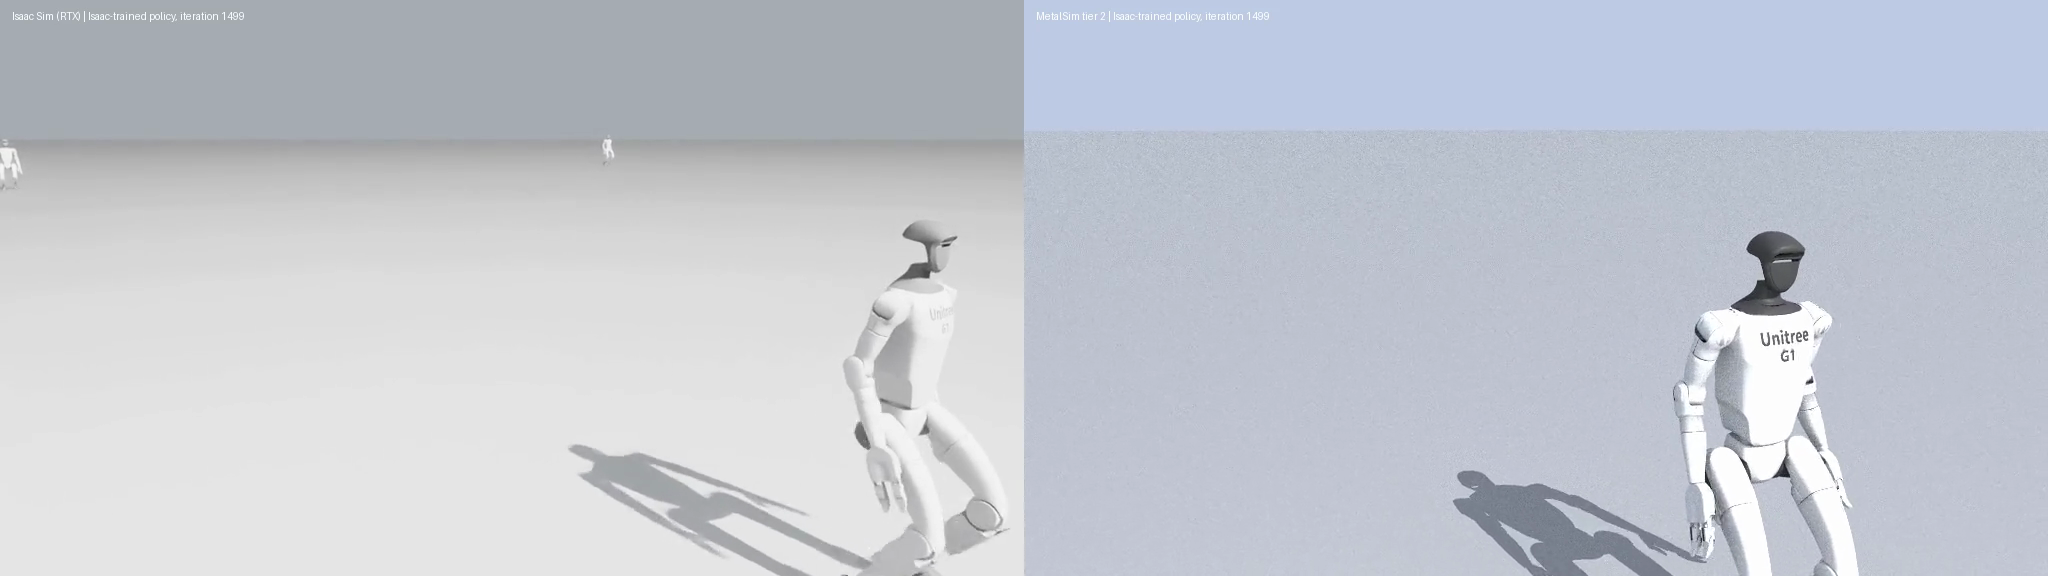
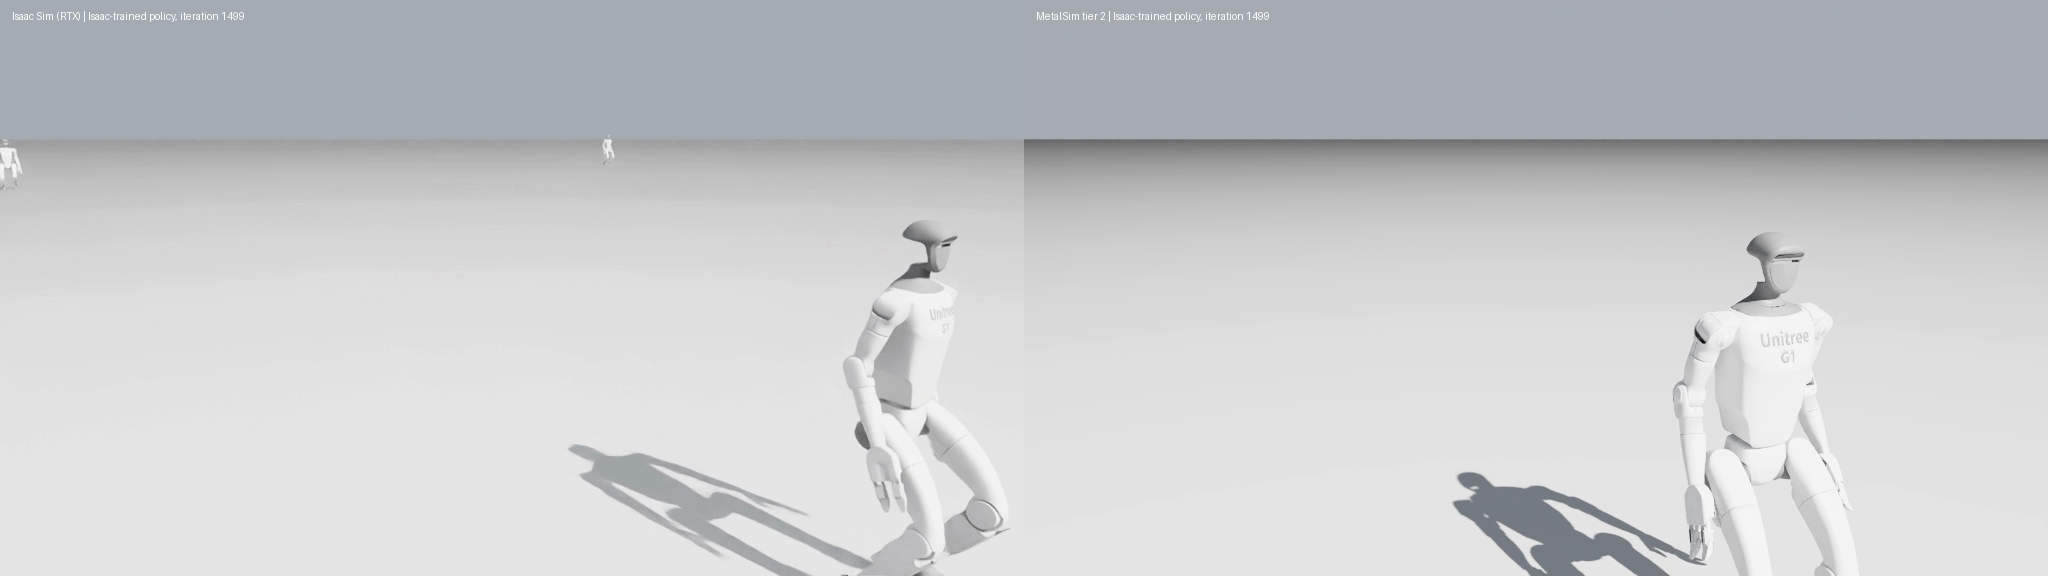
Gallery videos re-rendered with the RTX-parity preset; camera-RL physical render default recorded (8.8K env-steps/s, 4 spp); ledger rows

diff --git a/docs/PARITY.md b/docs/PARITY.md
@@ -603,7 +603,7 @@ and ends before the horizon, where RTX's reaches it.
 | Renderer tier 0 (raster + PBR + shadows) vs a reference rasterizer | Isaac RTX rasterizer | native Metal raster reading physics buffers | `tests/test_render_tier0.py::test_silhouette_and_depth_and_seg_parity_primitives` (vs `mujoco.Renderer`: IoU > 0.95, depth median < 1 cm, seg IoU > 0.85), `::test_texture_pattern_parity` (corr > 0.97) | IoU 0.994–0.997, depth 0.1 mm, corr 0.996 | confirmed vs MuJoCo; **not testable vs Isaac RTX** here |
 | Renderer tier 1 (hybrid RT: soft shadows, AO, reflections) | RTX real-time | fragment-stage Metal ray queries | fidelity benchmark (`metalsim.bench.render_fidelity`): PSNR 19.7 / FLIP 0.30 vs MuJoCo; rollout: `tests/test_render_tier2.py` sibling path (`CartpoleRGBEnv(tier=1)`) | measured | partial (no denoiser / MetalFX upscale yet) |
 | Renderer tier 2 (path tracer) | RTX path tracer (Isaac "PathTracing" mode) | progressive Metal RT path tracer, NEE, GGX+Lambert, Russian roulette | `tests/test_render_tier2.py::test_lambertian_plane_analytic` (radiance 0.4000 exact), `::test_white_furnace_uniform_sky` (0.498 vs 0.5), `::test_monte_carlo_convergence` (noise ratio 4.05 for 16× spp; ideal 4.0), `::test_direct_light_matches_tier0` (PSNR 43.7–45.1 dB, depth 1 mm, seg IoU 1.0), `::test_gpu_path_from_batchsim_matches_host`, `::test_cartpole_rgb_rollout_tier2` (full env rollout at tier 2) | pass | confirmed radiometrically; not compared to Isaac's path tracer (not testable here); no denoiser |
-| Camera-based RL: Isaac-Cartpole-RGB-Camera-Direct-v0 with the skrl agent Isaac Lab ships (image-only 100×100, NatureCNN + 512 ELU, 64-step rollouts, 4 epochs, 32 minibatches, lr 1e-4 KL-adaptive 0.008, value clip, per-image mean subtraction, running value scaler) | same config on `metalsim.learn.ppo` over the tier-0 renderer, 1024 envs (`metalsim.learn.train_cartpole_rgb`) | `runs/camera_cartpole_tier0.log`: 8M steps, return 8 → 85 (episode length 27 → 133 of 300), still rising; 7.5K env-steps/s incl. training, 76 % of it the CNN update on MPS. **2026-09-25, `fast_update` + Metal gradient kernels (`runs/camera_cartpole_tier0_fast.log`): 12,688 env-steps/s incl. training (`runs/camera_cartpole_tier0_fast2.log`: 8.06 M steps in 635 s vs 1077 s, last-20-iteration return 86.3 vs 86.3), update 3.22 s (was 7.2), kernels within 1e-4 of PyTorch's gradients; MLX whole-update measured not faster in fp32** | learns from pixels; Isaac publishes throughput only (32K on a 4090, 21K on an L40; measured 14.2K rollout-only on the L4), no curve to match; tier 1 and tier 2 runs pending | confirmed (learning), partial (throughput) |
+| Camera-based RL: Isaac-Cartpole-RGB-Camera-Direct-v0 with the skrl agent Isaac Lab ships (image-only 100×100, NatureCNN + 512 ELU, 64-step rollouts, 4 epochs, 32 minibatches, lr 1e-4 KL-adaptive 0.008, value clip, per-image mean subtraction, running value scaler) | same config on `metalsim.learn.ppo` over the tier-0 renderer, 1024 envs (`metalsim.learn.train_cartpole_rgb`) | `runs/camera_cartpole_tier0.log`: 8M steps, return 8 → 85 (episode length 27 → 133 of 300), still rising; 7.5K env-steps/s incl. training, 76 % of it the CNN update on MPS. **2026-09-25, `fast_update` + Metal gradient kernels (`runs/camera_cartpole_tier0_fast.log`): 12,688 env-steps/s incl. training at the legacy tier-2 path, 1 spp; **8,809 env-steps/s at the new physical default** (OmniPBR BRDF, sun disk, ACES + sRGB, 4 spp, exposure 0.25; 2ce2461; the 26 ms per 1024-env step is the 4 spp, the tone map and sun disk are free; learning signal unchanged: return 29.5 / 45.7 at iterations 5 / 10 vs 24.8 / 45.7) (`runs/camera_cartpole_tier0_fast2.log`: 8.06 M steps in 635 s vs 1077 s, last-20-iteration return 86.3 vs 86.3), update 3.22 s (was 7.2), kernels within 1e-4 of PyTorch's gradients; MLX whole-update measured not faster in fp32** | learns from pixels; Isaac publishes throughput only (32K on a 4090, 21K on an L40; measured 14.2K rollout-only on the L4), no curve to match; tier 1 and tier 2 runs pending | confirmed (learning), partial (throughput) |
 | Tier 1 / tier 2 full rollouts (throughput) | Isaac Cartpole-RGB: 50K steps/s at 1024 envs on a 4090 (rasterized RTX, reported); **measured on the L4** (Isaac Sim 5.1, `benchmark_non_rl.py --enable_cameras`, 1024 envs, 100 frames, 2026-09-24): mean 14,233, max 15,570 env-steps/s | Cartpole-RGB 100×100, 1024 envs, physics + render + reward/reset, one run each, uncontended | `metalsim.learn.cartpole_rgb` (`python -m metalsim.learn.cartpole_rgb 1024`) | tier 0 47,911; tier 1 43,368; tier 2 (1 spp, 1 bounce) 36,896; tier 2 (1 spp, 2 bounces) 35,160; tier 2 (4 spp, 2 bounces) 19,894 env-steps/s (uncontended pass 2026-09-24) | measured; the tier-2 rollout is a full path-traced observation stream at 70 % of the raster rate (1 spp, noisy) |
 | Ray-traced sensors (lidar, depth) | RTX lidar | Metal RT acceleration structures refit from physics | `tests/test_sensors_rt.py::test_lidar_vs_mujoco_ray` (median < 2 mm, 95th < 2 cm, hit pattern within 3 %), `::test_raycast_depth_vs_raster_depth` (99.5 % agree, median < 1 mm) | pass | confirmed vs MuJoCo `mj_ray`; **not testable vs Isaac RTX lidar** |
 | Replicator: annotators (rgb, distance to image plane / camera, normals, semantic / instance / instance-id segmentation with Isaac's label maps, 2D tight and loose boxes with occlusion ratio, 3D boxes, point cloud, motion vectors, camera params), BasicWriter layout, semantics labelling, Isaac Lab event terms with startup / reset / interval scheduling | `metalsim/replicator/` (d1ab426): single-pass Warp kernels over tier 0's id / depth / normal buffers; `BasicWriter` writes Replicator 1.12's exact file set (old writer kept as `NpzWriter`); event manager with material, mass/inertia, COM, gains, joint parameters, gravity, external force, push, root/joint reset, colour | `tests/test_replicator_annotators.py` (24 tests: boxes at known poses vs an analytic ray cast, exact on every unambiguous pixel; 3D boxes to 2e-6; point cloud within 5e-4 m; motion vectors within 2e-3 px; writer file set exact; COM reset velocity to 1e-5) | cost per frame at 1024 envs × 128² (upper bounds, measured alongside a training run): segmentation 1.3 ms, tight boxes 1.4, 3D boxes 1.8, distance 3.7, normals 2.7, point cloud 12.3, motion 4.8; exact loose boxes 153 (one id render per object), hull-projected loose boxes 55 | confirmed (listed annotators and events); not done: per-pixel occlusion, skeleton, collider offsets, rigid-body scale, texture swap, scatter randomizers |

diff --git a/docs/DECISIONS.md b/docs/DECISIONS.md
@@ -8,6 +8,8 @@ measured unless marked estimated. Newer decisions go at the top.
 
 | date | decision | options considered (with numbers) | chosen and why | how to re-enable the others |
 |---|---|---|---|---|
+| 2026-09-25 | Camera-RL tier-2 render default | legacy 1 spp: 30.5 ms per 1024-env step, 11,301 env-steps/s incl. PPO, return 24.8 / 45.7 at it 5 / 10; physical 4 spp exposure 1.0: 56.9 ms, 7,561, no learning (9.3 / 6.7: washed-out images); physical 4 spp exposure 0.25: 56.9 ms, 8,809, 29.5 / 45.7; 1 spp is 5.6 dB further from converged than 4 spp | physical, 4 spp, exposure 0.25 (fidelity first; the loss at 1 spp is not negligible) | `CartpoleRGBConfig(render_mode="legacy")`, `--render_mode`, `--spp`, `tier2_exposure` |
+| 2026-09-25 | Gallery stage videos' renderer | old path vs preset `oidn_cal_fvg` (layered BRDFs, sun disk, 100 m clip, OIDN) | new preset for all 12 videos | `side_by_side.py --tier2_mode legacy` |
 | 2026-09-25 | Rendering: BRDF for OmniPBR (robot PSNR vs RTX PT) | legacy 13.86; Storm-like curve (`omnipbr_curve`) 13.24; MDL layering base × (1 − E_ggx) (`omnipbr`) 13.73 → 28.5 with final lights; base × curve(N·V) (`omnipbr_fv`) 28.06 | `omnipbr` | `material_model=` presets in `metalsim/render/tier2.py`; `docs/research/rendering_vs_rtx_2026-09-25.md` §5 |
 | 2026-09-25 | Rendering: BRDF for UsdPreviewSurface | Storm (`usd_preview_storm`); MDL albedo layering (`usd_preview`): whole vs PT 19.7; Fresnel(N·V) base (`usd_preview_fv`): 28.1 → 44.9 with far clip | `usd_preview_fv` (reproduces RTX's ground row profile to ≤ 1.5 levels) | same presets |
 | 2026-09-25 | Rendering: sun units and shape | irradiance = I (UsdLux doc) misses sky + ground by 12–21 levels under every tone curve; π·I fits to 0.9 levels; delta sun vs 0.53° disk (+0.2 ms per RL batch) | π·I, disk | `usd_lights(intensity/π)`, `angle_deg=0` |
